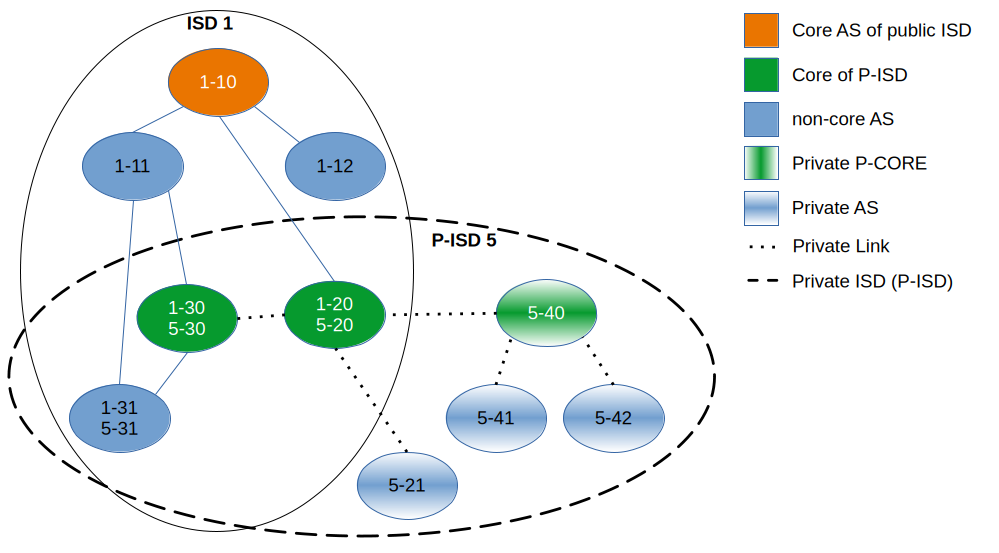
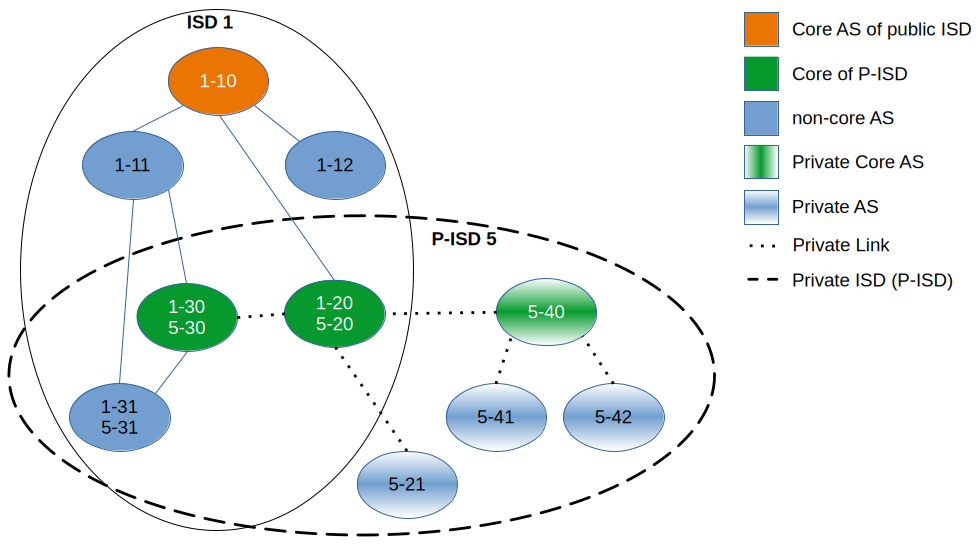
No P-CORE and diagrams

diff --git a/doc/dev/design/private-ISDs.rst b/doc/dev/design/private-ISDs.rst
@@ -67,8 +67,6 @@ Background
 Terminology
 -----------
 - P-ISD - Private ISD
-- P-CORE - The core router(s) of a P-ISD. P-ISDs provide TRCs and local
-  beaconing but (usually) do not participate in the normal ISDs' core routing.
 - BR - Border router
 - CS - Control service / path service
 - Private AS - A Private AS is part of an P-ISD but not visible from
@@ -119,8 +117,8 @@ Building a P-ISD
    in used by the public ISD or by other P-ISD. It may also use additional
    interfaces/links that are not otherwise available.
 
-2. Out of the participating ASes, we chose core ASes (P-COREs), authoritative ASes,
-   voting ASes, ... and so on to for an ISD (TRC, etc) as usual.
+2. Out of the participating ASes, we chose core ASes, authoritative ASes,
+   voting ASes, ... and so on for an ISD (TRC, etc) as usual.
    Unlike normal ISDs, the are no "core" links or "peering" links that leave the P-ISD.
 
 3. Pick an (P-)ISD number. For now, we can use any ISD number from the `private range (16-63)
@@ -131,7 +129,7 @@ The resulting P-ISD is built mostly like a normal ISD: It has a TRC, performs
 beaconing, has at least one CORE AS, ASes have child/parent/peer relationships.
 However, there are some differences:
 
-- P-CORE ASes have no links to other ISDs and do not perform beaconing outside the P-ISD.
+- Core ASes have no links to other ISDs and do not perform beaconing outside the P-ISD.
 - P-ISD numbers do not need to be announced outside the P-ISD.
 - ASes in an P-ISD can have different ISD numbers (from their respective ISDs.
 - P-ISDs are not addressable or even visible from the outside, they don't have
@@ -140,7 +138,7 @@ However, there are some differences:
 Beaconing and routing is completely separate for each (P-)ISD. PCBs and traffic cannot
 leave or enter a P-ISD. Path segments from different P-ISDs cannot be combined.
 
-Note: An P-ISD can contain ASes (including P-COREs) and links that are not
+Note: An P-ISD can contain ASes (including core ASes) and links that are not
 visible outside of the P-ISD. These are called "private",
 see also `Private Links and Private ASes`_.
 
@@ -183,8 +181,7 @@ Example: An P-ISD spread over two ISDs
 
 Beaconing
 ---------
-The P-CORE performs beaconing just like a normal core AS.
-PCBs from an P-CORE are signed/extend with the TRC of the originating P-CORE.
+The core ASes perform beaconing just like in a normal ISD.
 
 Path Service
 ------------
@@ -270,10 +267,11 @@ P-ISD (or ISD) the segments should used.
    There is no special meaning to "nesting", P-ISDs can overlap arbitrarily or
    partially as desired.
 
-In some scenarios it may be useful if an AS can act as P-CORE for multiple P-ISDs.
+In some scenarios it may be useful if an AS can act as core AS for multiple P-ISDs.
 For example an ISP could offer to set up P-ISDs as a service for customers,
-it's own AS would then act as P-CORE for each P-ISD.
-This should work but is limited by two aspects:
+it's own AS would then act as core AS for each P-ISD.
+
+Having an AS participating in many (P-)ISDs works but is limited by two aspects:
 
 - (P-)ISD numbers are limited to 16bit. Even if we use the reserved ISD numbers
   the range would be limited to 60000, so an ISP can set up only 60K P-ISDs for
@@ -284,8 +282,8 @@ This should work but is limited by two aspects:
   A workaround is for the ISP to set up multiple AS that each serve a subset
   of the customer's P-ISD requirements.
 
-There is also a WIP that completely avoids these problems, allowing 32bit or even 64bit
-ISD numbers and additionally being immune to conflicting IDS.
+There is also a proposed extension that reduces the problem by 32bit ISD numbers,
+see `Alternative: 32bit ISD Numbers`_.
 
 
 Private Links and Private ASes